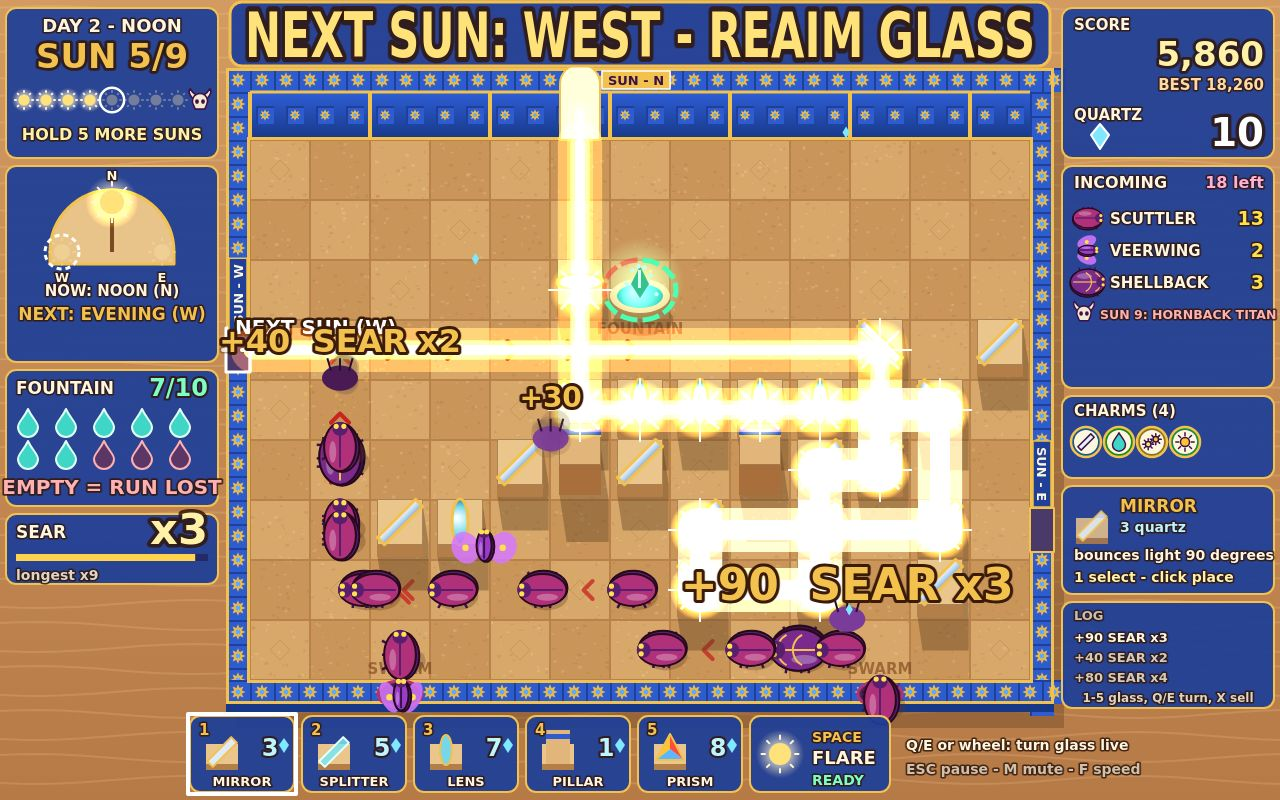
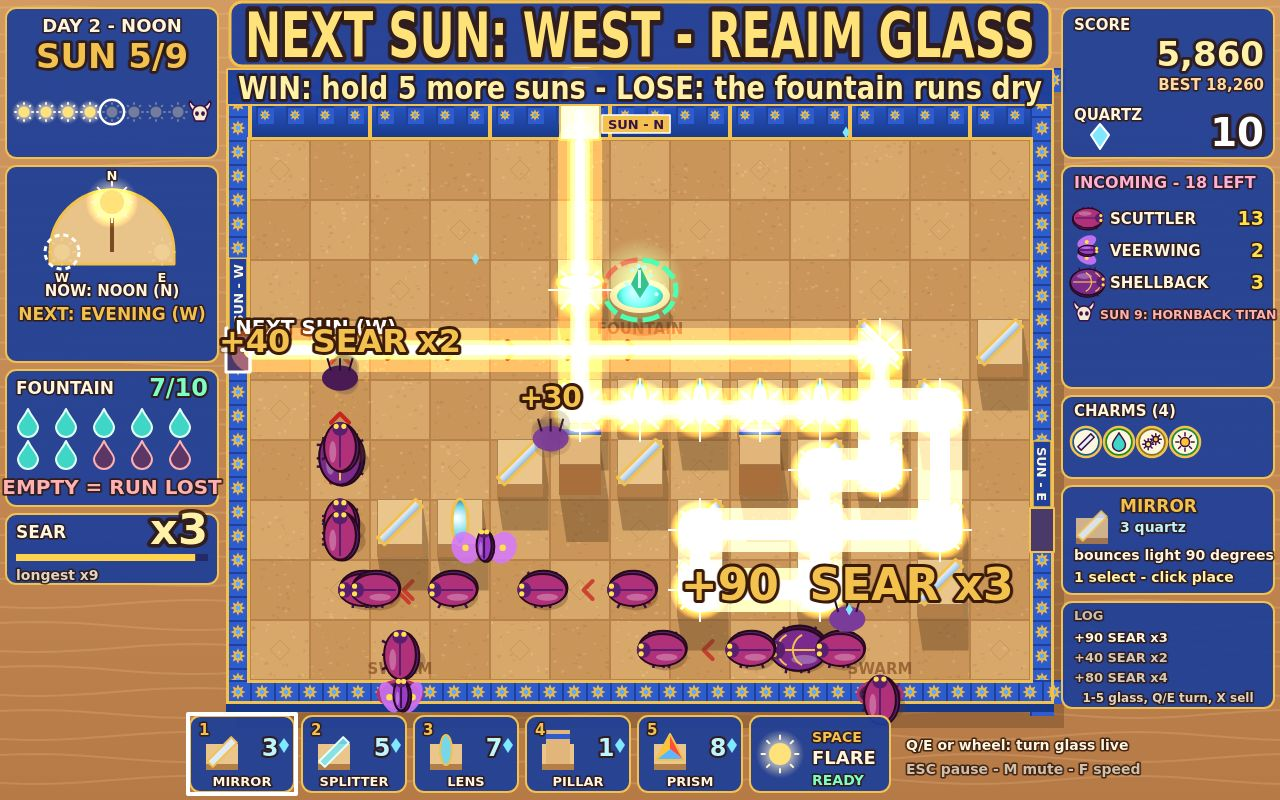
Cover: WIN/LOSE frieze on the north wall with the real count of suns left (truth-checked), INCOMING - n LEFT; SUN - N plaque moved onto the wall front

Changed region(s): [[0.0, 0.0625, 0.8438, 0.1875], [0.8438, 0.2188, 1.0, 0.25]]

diff --git a/game/src/render/hud.js b/game/src/render/hud.js
@@ -6,7 +6,7 @@ import { BEAM, ENEMIES, NAMES, PIECES, PIECE_ORDER, WAVE_COUNT } from '../config
 import { boonById } from '../draft.js';
 import { chainMultiplier, chainWindow } from '../combat.js';
 import { enemiesRemaining, liftRefund, pieceCost, pieceUnlocked } from '../sim.js';
-import { currentBanner } from '../announce.js';
+import { currentBanner, winLoseHeadline } from '../announce.js';
 import { sunApertureFor } from '../sun.js';
 import { waveRoster } from '../waves.js';
 import { drawEnemy } from './beetles.js';
@@ -250,9 +250,7 @@ function drawLeftPanel(ctx, run) {
   panel(ctx, LEFT_X, 8, PANEL_W, 150);
   text(ctx, `DAY ${day} - ${phase.name}`, LEFT_X + PANEL_W / 2, 32, 18, INK, 'center', 900);
   text(ctx, `${NAMES.sun} ${run.waveIndex + 1}/${WAVE_COUNT}`, LEFT_X + PANEL_W / 2, 68, 34, GOLD, 'center', 900);
-  drawSunTrack(ctx, LEFT_X + 18, 100, 22, 9, run.stats.wavesCleared, run.waveIndex);
-  const left = WAVE_COUNT - run.stats.wavesCleared;
-  text(ctx, left === 1 ? 'HOLD THE LAST SUN' : `HOLD ${left} MORE ${NAMES.suns}`, LEFT_X + PANEL_W / 2, 140, 16, '#FFF2A8', 'center', 900);
+  drawSunTrack(ctx, LEFT_X + 18, 112, 22, 9, run.stats.wavesCleared, run.waveIndex);
   panel(ctx, LEFT_X, 166, PANEL_W, 196);
   drawSunDial(ctx, run, LEFT_X + PANEL_W / 2, 252);
   panel(ctx, LEFT_X, 370, PANEL_W, 136);
@@ -293,8 +291,7 @@ function drawQuartzGem(ctx, x, y) {
 function drawIncoming(ctx, run, y0) {
   const x0 = RIGHT_X;
   const inWave = run.phase === 'wave';
-  text(ctx, inWave ? 'INCOMING' : `${NAMES.sun} ${run.waveIndex + 1} BRINGS`, x0 + 12, y0 + 22, 16, INK, 'left', 900);
-  if (inWave) text(ctx, `${enemiesRemaining(run)} left`, x0 + PANEL_W - 10, y0 + 22, 16, '#FFB0D8', 'right', 900);
+  text(ctx, inWave ? `INCOMING - ${enemiesRemaining(run)} LEFT` : `${NAMES.sun} ${run.waveIndex + 1} BRINGS`, x0 + 12, y0 + 22, 16, inWave ? '#FFB0D8' : INK, 'left', 900);
   const roster = waveRoster(run.waveIndex, run.diff);
   const left = new Map();
   if (inWave) {
@@ -369,6 +366,25 @@ function drawRightPanel(ctx, run, ui) {
   text(ctx, '1-5 glass, Q/E turn, X sell', x0 + PANEL_W / 2, 702, 12, 'rgba(255,246,223,0.85)', 'center', 800);
 }
 
+
+/** The win and lose rule, inscribed along the north wall under the banner. */
+function drawWinLoseFrieze(ctx, run) {
+  const line = winLoseHeadline(run);
+  const x = BOARD_X - WALL;
+  const w = BOARD_W + WALL * 2;
+  ctx.fillStyle = 'rgba(31,63,153,0.96)';
+  ctx.fillRect(x, 68, w, 38);
+  ctx.strokeStyle = GOLD;
+  ctx.lineWidth = 2;
+  ctx.strokeRect(x + 1, 69, w - 2, 36);
+  ctx.font = `900 32px ${FONT}`;
+  const squeeze = Math.min(1, (w - 24) / ctx.measureText(line).width);
+  ctx.save();
+  ctx.translate(640, 99);
+  ctx.scale(squeeze, 1);
+  text(ctx, line, 0, 0, 32, '#FFF2A8', 'center', 900);
+  ctx.restore();
+}
 
 /** The big banner over the courtyard: the latest event, or what the next sun asks of you. */
 function drawEventBanner(ctx, run) {
@@ -508,6 +524,7 @@ function drawHotbar(ctx, run, ui) {
 
 export function drawHud(ctx, run, ui) {
   drawEventBanner(ctx, run);
+  drawWinLoseFrieze(ctx, run);
   drawLeftPanel(ctx, run);
   drawRightPanel(ctx, run, ui);
   drawHotbar(ctx, run, ui);

diff --git a/game/src/testhook.js b/game/src/testhook.js
@@ -3,7 +3,7 @@
 // point the mouse, and read back the numbers the HUD shows.
 import { WAVE_COUNT } from './config.js';
 import { enemiesRemaining } from './sim.js';
-import { currentBanner } from './announce.js';
+import { currentBanner, winLoseHeadline } from './announce.js';
 import { loadHistory } from './save.js';
 
 export function installTestHook(app, api) {
@@ -65,6 +65,7 @@ export function installTestHook(app, api) {
         offer: run.offer.slice(),
         kills: run.stats.kills,
         banner: currentBanner(run),
+        headline: winLoseHeadline(run),
         log: run.log.join(' | '),
         sunsHeld: run.stats.wavesCleared,
         best: app.ui.best,

diff --git a/game/src/announce.js b/game/src/announce.js
@@ -49,6 +49,12 @@ export function announceEvents(run, events) {
   }
 }
 
+/** The run's win and lose conditions with the real count of suns still to hold (current included). */
+export function winLoseHeadline(run) {
+  const left = WAVE_COUNT - run.stats.wavesCleared;
+  return `WIN: hold ${left} more ${left === 1 ? NAMES.sun.toLowerCase() : NAMES.suns.toLowerCase()} - LOSE: the ${NAMES.fountainShort.toLowerCase()} runs dry`;
+}
+
 /** The banner shown now: a fresh event, else advice about the next sun. */
 export function currentBanner(run) {
   if (run.banner && run.time - run.banner.at < BANNER_SECONDS) return run.banner.text;

diff --git a/game/src/render/board.js b/game/src/render/board.js
@@ -163,7 +163,7 @@ function windowRect(ap) {
 function drawWindowLabel(ctx, ap, slot, lit) {
   const label = `SUN - ${ap.phase.wallName[0]}`;
   ctx.save();
-  if (ap.wall === 'north') ctx.translate(slot.x + slot.w + 36, slot.y + WALL / 2);
+  if (ap.wall === 'north') ctx.translate(slot.x + slot.w + 36, BOARD_Y - 16);
   else {
     ctx.translate(slot.x + slot.w / 2, slot.y - 34);
     ctx.rotate(ap.wall === 'east' ? Math.PI / 2 : -Math.PI / 2);

diff --git a/NOTES.md b/NOTES.md
@@ -82,6 +82,9 @@
   SCOPE_LINE (counted from config.js; also the first line of the index.html note, which now names the
   moving sun, the 9-sun win, the lose rule and R). Demo scaled 1.2x with all three suns beaming.
 
+- Benchmark 3 item 1: WIN/LOSE frieze along the north wall ("WIN: hold n more suns - LOSE: the
+  fountain runs dry", n from the sim, truth-checked); INCOMING - n LEFT; HOLD line removed.
+
 ## Next
 - M3 feel (rest): hit-stop-like pop on SEAR steps, fountain pip crack, quartz counter pulse,
   colour-blind beam patterns (option), How to play illustrated panels.
